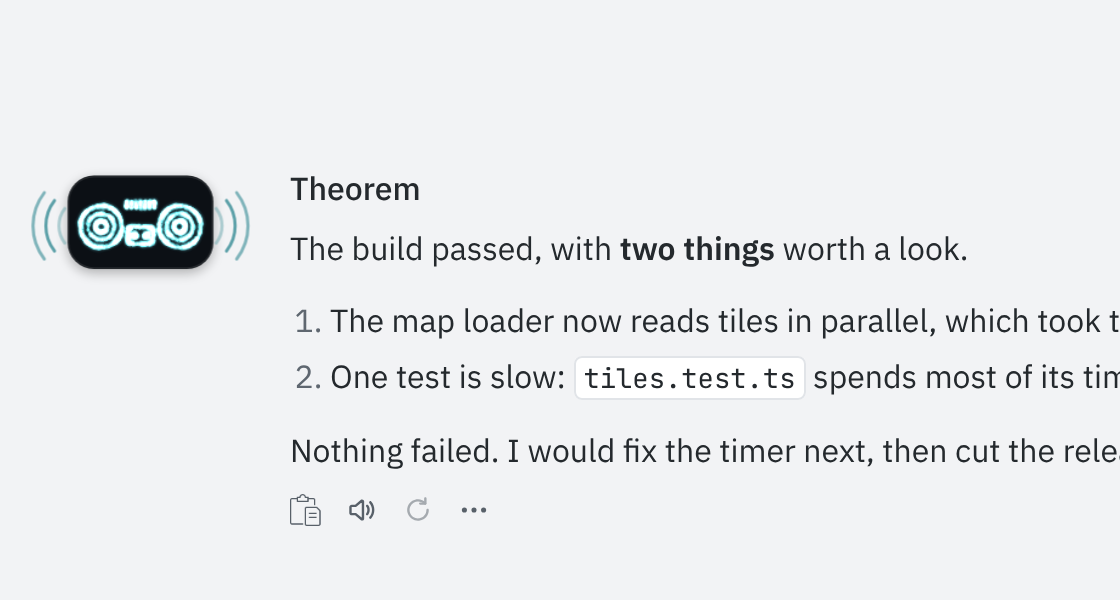
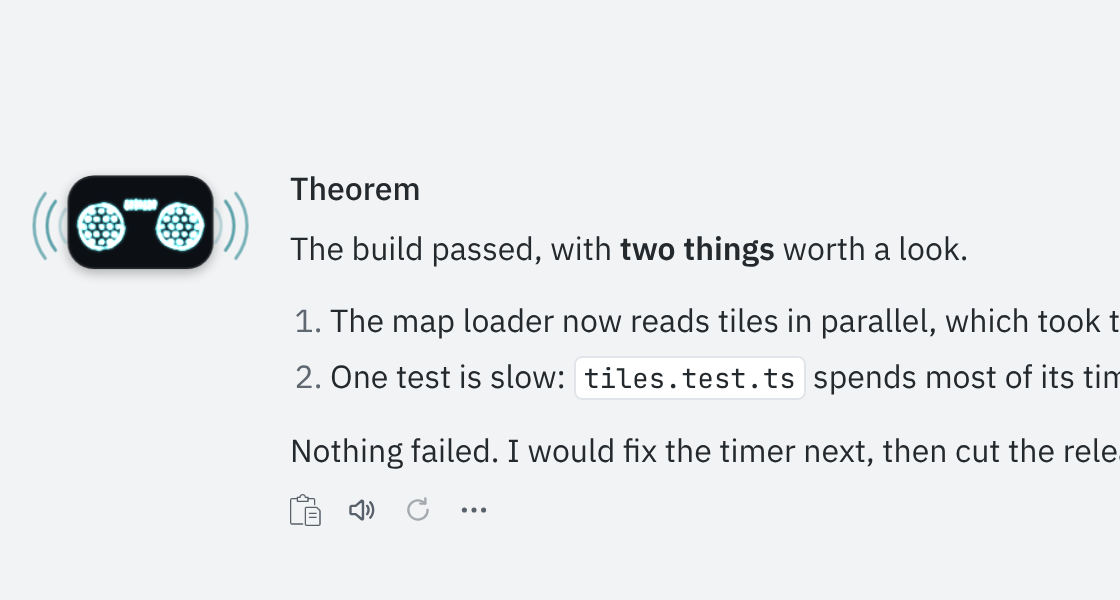
Give the boombox mesh speaker covers, and take the deck out
The owner's two changes on seeing the first loudspeaker. The cassette
deck under the dial read as a nose, so it and its reels are gone; the
dial above stays. The eyes were three rings each, which read as tired
cartoon eyes more than speakers: they are now the mesh of a speaker's
cover, dots in staggered rows inside a rim.

`mesh` is a new feature param beside `rings` and `slats`. `rings` is
kept for a later device; nothing in the book uses it now.

The renders that show the loudspeaker are taken again.

Claude-Session: https://claude.ai/code/session_01JfHnWFDvdCjcfPp38bT2qx

Changed region(s): [[0.0312, 0.33, 0.25, 0.42]]

diff --git a/src/lib/face/feature.ts b/src/lib/face/feature.ts
@@ -1,4 +1,4 @@
-// SOURCING: the superellipse (Lamé curve) for a box that rounds into an ellipse or pinches into a diamond; eight radial gains interpolated around it, the study rig's way of bending one outline into many (theorem-face-study src/rig.js, docs/plans/theo-face.md Sources). The rings and bars a feature's matter can be gathered into are this app's, for the devices the face turns into (docs/plans/theo-sound.md). The lids that gather cut matter onto their line are this app's, after the reference robot's eyes, which close to a bright line rather than vanishing.
+// SOURCING: the superellipse (Lamé curve) for a box that rounds into an ellipse or pinches into a diamond; eight radial gains interpolated around it, the study rig's way of bending one outline into many (theorem-face-study src/rig.js, docs/plans/theo-face.md Sources). The rings, bars and mesh a feature's matter can be gathered into are this app's, for the devices the face turns into (docs/plans/theo-sound.md). The lids that gather cut matter onto their line are this app's, after the reference robot's eyes, which close to a bright line rather than vanishing.
 import { FEATURE_PARAMS, FEATURE_PARAM_NAMES } from './channels'
 import type { FeatureDef, FeatureParam } from './channels'
 
@@ -21,6 +21,7 @@ export interface Shape {
   hollow: number
   rings: number
   slats: number
+  mesh: number
   turn: number
   scale: number
   alpha: number
@@ -50,6 +51,7 @@ export function restShape(side: -1 | 0 | 1 = 0): Shape {
     hollow: 0,
     rings: 0,
     slats: 0,
+    mesh: 0,
     turn: 0,
     scale: 1,
     alpha: 1,
@@ -79,6 +81,14 @@ const MEET = 0.3
 const RESIDUE = 0.07
 /** How much of the gap between two rings, or two bars, the matter of one fills. */
 const BAND = 0.34
+/** How much of the step between two dots of a mesh the matter of one fills. */
+const DOT = 0.46
+/** How far apart the rows of a mesh are, in steps: every other row sits between the dots of the last. */
+const ROW = Math.sqrt(3) / 2
+/** How much of a meshed feature's matter is its rim, how wide the rim is and how far the dots keep from it, as parts of the feature. */
+const RIM_SHARE = 0.24
+const RIM_WIDTH = 0.07
+const RIM_GAP = 0.03
 
 /**
  * Where one grain sits in a feature, in face units. `theta` is its angle
@@ -125,6 +135,37 @@ export function seatPoint(
     const bar = Math.min(slats - 1, Math.floor(((height + 1) / 2) * slats))
     const middle = -1 + (2 * bar + 1) / slats
     y = (middle + (height - middle) * BAND) * shape.h
+  }
+  // Mesh: the outermost matter is the rim, and each grain inside goes to the dot its place falls in, every
+  // other row half a step along. Where the nearest dot would cross the rim the grain looks further in.
+  const mesh = Math.round(shape.mesh)
+  if (mesh >= 1 && shape.w > 0 && shape.h > 0) {
+    if (u > 1 - RIM_SHARE) {
+      const band = 1 - RIM_WIDTH * ((1 - u) / RIM_SHARE)
+      x = band * rim * gain * shape.w * cos
+      y = band * rim * gain * shape.h * sin
+    } else {
+      const step = (2 * shape.w) / mesh
+      const reach = 1 - RIM_WIDTH - RIM_GAP - (DOT * step) / (2 * shape.w)
+      let inward = Math.sqrt(u / (1 - RIM_SHARE))
+      for (let tries = 0; tries < 4; tries++) {
+        const px = inward * rim * gain * shape.w * cos
+        const py = inward * rim * gain * shape.h * sin
+        const row = Math.round(py / (step * ROW))
+        const shift = ((row & 1) === 1 ? mesh % 2 : 1 - (mesh % 2)) / 2
+        const dotX = (Math.round(px / step - shift) + shift) * step
+        const dotY = row * step * ROW
+        x = dotX + (px - dotX) * DOT
+        y = dotY + (py - dotY) * DOT
+        const past = Math.pow(
+          Math.pow(Math.abs(dotX / shape.w), n) +
+            Math.pow(Math.abs(dotY / shape.h), n),
+          1 / n,
+        )
+        if (past <= reach) break
+        inward *= 0.82
+      }
+    }
   }
 
   // Lids. `across` runs -1 at the inner end to 1 at the outer.

diff --git a/src/lib/face/sound.test.ts b/src/lib/face/sound.test.ts
@@ -1,4 +1,4 @@
-// SOURCING: bun:test; lib/face's own parts (signals, the follow step, forms, rings and bars), checked on a clock the test turns. The sound here is numbers the test feeds, as the page's meter would (lib/sound/meter has its own tests).
+// SOURCING: bun:test; lib/face's own parts (signals, the follow step, forms, rings, bars and mesh), checked on a clock the test turns. The sound here is numbers the test feeds, as the page's meter would (lib/sound/meter has its own tests).
 import { describe, expect, test } from 'bun:test'
 import { BUILT_IN } from './book'
 import { Channels } from './channels'
@@ -299,7 +299,7 @@ describe('forms', () => {
     expect([...seen].sort()).toEqual(['boombox', 'speak'])
   })
 
-  test('as a loudspeaker it has a deck and a dial, and sends out as much as is playing', () => {
+  test('as a loudspeaker its eyes are mesh covers under a dial, and it sends out as much as is playing', () => {
     const { face, run } = theo()
     // Draw until the loudspeaker is the form: which one is the face's to choose.
     for (let tries = 0; tries < 20; tries++) {
@@ -308,9 +308,12 @@ describe('forms', () => {
     }
     expect(plain(face.player.holding('form')?.name)).toBe('boombox')
     run(1_500)
-    expect(features(face)).toEqual(
-      expect.arrayContaining(['deck', 'reel.left', 'reel.right', 'dial']),
-    )
+    expect(features(face)).toContain('dial')
+    // Nothing sits under the dial, between the speakers.
+    expect(features(face)).not.toContain('deck')
+    expect(face.rig.read('eye.left.mesh')).toBeCloseTo(5, 1)
+    expect(face.rig.read('eye.right.mesh')).toBeCloseTo(5, 1)
+    expect(face.rig.read('eye.left.rings')).toBe(0)
     expect(face.emitting()).toEqual({ left: 0, right: 0 })
     face.feed({ 'sound.level': 0.8 })
     run(300)
@@ -426,7 +429,7 @@ describe('forms', () => {
   })
 })
 
-describe('rings and bars', () => {
+describe('rings, bars and mesh', () => {
   const seat = (
     shape: ReturnType<typeof restShape>,
     theta: number,
@@ -468,7 +471,43 @@ describe('rings and bars', () => {
     expect(rows.size).toBe(5)
   })
 
-  test('with neither, a feature is filled as it always was', () => {
+  test('a mesh gathers it into dots inside a rim, every other row set between the dots of the last', () => {
+    const meshed = { ...round, mesh: 5 }
+    const step = 20 / 5
+    const rows = step * (Math.sqrt(3) / 2)
+    const dots = new Set<string>()
+    let onRim = 0
+    let inside = 0
+    for (let turn = 0; turn < 96; turn++)
+      for (let depth = 1; depth <= 60; depth++) {
+        const [x, y] = seat(meshed, (turn / 96) * Math.PI * 2, depth / 60)
+        const out = Math.hypot(x, y) / 10
+        expect(out).toBeLessThanOrEqual(1 + 1e-6)
+        if (out > 0.92) {
+          onRim++
+          continue
+        }
+        inside++
+        const row = Math.round(y / rows)
+        const shift = row % 2 === 0 ? 0 : 0.5
+        const column = Math.round(x / step - shift) + shift
+        // A grain stays near the middle of its dot: between two dots there is nothing.
+        expect(Math.hypot(x - column * step, y - row * rows)).toBeLessThan(
+          step * 0.35,
+        )
+        // And no dot reaches the rim.
+        expect(Math.hypot(column * step, row * rows) / 10).toBeLessThan(0.85)
+        dots.add(`${column},${row}`)
+      }
+    // Five across the middle, and the rows above and below it.
+    expect([...dots].filter((dot) => dot.endsWith(',0'))).toHaveLength(5)
+    expect(dots.has('0,0')).toBe(true)
+    expect(dots.has('0.5,1')).toBe(true)
+    expect(dots.size).toBeGreaterThanOrEqual(15)
+    expect(onRim / (onRim + inside)).toBeCloseTo(0.24, 1)
+  })
+
+  test('with none of them, a feature is filled as it always was', () => {
     const [x, y] = seat(round, 0, 0.25)
     expect(Math.hypot(x, y)).toBeCloseTo(5, 3)
   })

diff --git a/src/lib/face/book.ts b/src/lib/face/book.ts
@@ -475,37 +475,13 @@ export const BUILT_IN: ReadonlyArray<Entry> = [
   // sound itself: with nothing playing, nothing in them moves.
   own(
     'boombox',
-    'While sound plays: the eyes become ringed loudspeakers that throb with it, a cassette deck and a tuner open between them, and arcs leave its sides.',
+    'While sound plays: the eyes become the mesh covers of two loudspeakers that throb with it, a tuner opens above and between them, and arcs leave its sides.',
     {
       keep: true,
       steps: [
         {
           op: 'par',
           steps: [
-            {
-              op: 'feature',
-              id: 'deck',
-              side: 'centre',
-              set: {
-                x: 0,
-                y: 9,
-                w: 9.5,
-                h: 6.5,
-                round: 6,
-                hollow: 0.74,
-                share: 0.34,
-              },
-            },
-            {
-              op: 'feature',
-              id: 'reel.left',
-              set: { x: 4.2, y: 9, w: 2, h: 2, round: 2, share: 0.07 },
-            },
-            {
-              op: 'feature',
-              id: 'reel.right',
-              set: { x: 4.2, y: 9, w: 2, h: 2, round: 2, share: 0.07 },
-            },
             {
               op: 'feature',
               id: 'dial',
@@ -529,7 +505,7 @@ export const BUILT_IN: ReadonlyArray<Entry> = [
                 'eyes.w': 13,
                 'eyes.h': 13,
                 'eyes.round': 2,
-                'eyes.rings': 3,
+                'eyes.mesh': 5,
                 'eyes.lid': 0,
                 'eyes.low': 0,
                 'eyes.lidTilt': 0,

diff --git a/src/lib/face/channels.ts b/src/lib/face/channels.ts
@@ -12,7 +12,7 @@ export interface ChannelSpec {
  * What every feature of the face is made of. A feature is a filled shape of
  * particles: a superellipse (`w`, `h`, `round`) bent by eight radial gains
  * (`r0`..`r7`, clockwise from the outer side), cut by an upper and a lower
- * lid, gathered into rings or bars when asked, placed and turned. Lengths are face units: the visor is 100 by 64.
+ * lid, gathered into rings, bars or a mesh when asked, placed and turned. Lengths are face units: the visor is 100 by 64.
  */
 export const FEATURE_PARAMS = {
   x: {
@@ -86,6 +86,12 @@ export const FEATURE_PARAMS = {
     max: 9,
     rest: 0,
     note: 'Its matter gathered into this many bars across: 0 filled, 5 a grille.',
+  },
+  mesh: {
+    min: 0,
+    max: 9,
+    rest: 0,
+    note: 'Its matter gathered into dots, this many across the middle, inside a rim: 0 filled, 5 a speaker cover.',
   },
   turn: {
     min: -180,

diff --git a/docs/plans/theo-sound.md b/docs/plans/theo-sound.md
@@ -29,6 +29,11 @@ box design"; "pair its activities with transforming into electronic
 devices"; "wire up phonon", the 31M model; and people may "bring their own
 ElevenLabs or similar provider keys". It is not a file, so it has no hash.
 
+On seeing the first loudspeaker the owner asked for two changes, made
+here: "remove the middle piece on the bottom", which "looks like a bear's
+nose", and make the eyes "less subwoofer shaped and more like the mesh of
+a speaker cover".
+
 Two limits were agreed with it and are kept here:
 
 - Theo never opens the microphone and never starts speech to text by
@@ -104,15 +109,20 @@ an ordinary reaction to a sound getting loud.
 ## The loudspeaker
 
 `boombox` is the first device. It is made of the face's own matter, with
-two additions to what a feature can be (`src/lib/face/feature.ts`):
+three additions to what a feature can be (`src/lib/face/feature.ts`):
 
-- `rings`: the matter gathered into that many rings from the middle out.
-  Three is a loudspeaker cone.
+- `mesh`: the matter gathered into dots inside a rim, that many across the
+  middle, every other row set between the dots of the last. Five is a
+  speaker's cover.
 - `slats`: the matter gathered into that many bars. Seven, turned a
   quarter, is a tuner strip.
+- `rings`: the matter gathered into that many rings from the middle out.
+  The first loudspeaker's cones were three of these. Nothing in the book
+  uses it now; it is kept for a device that wants it.
 
-The eyes become two ringed speakers and move apart; a `deck` (a hollow
-box) with two `reel`s sits between them and a `dial` above. The speakers
+The eyes become the mesh covers of two speakers and move apart, with a
+`dial` above and between them. Nothing sits under the dial: the first
+version had a cassette deck there, and it read as a nose. The speakers
 swell with `sound.low` and `sound.beat`, the dial with `sound.high`.
 
 What leaves the sides is not matter. Matter is clipped to the visor, so
@@ -134,8 +144,8 @@ are drawn still for as long as there is sound, and go when there is none.
 `sound.level` and whose width narrows with `sound.mid`. `thump` is a short
 kick for a sudden loud sound.
 
-Later devices are meant to be built the same way: features, rings and
-bars, and ties to signals.
+Later devices are meant to be built the same way: features, meshes, bars
+and rings, and ties to signals.
 
 ## The page's sound
 
@@ -236,8 +246,8 @@ src/lib/face/
   layers.ts       the `form` layer
   reactions.ts    `until`, and drawing a form; the three sound rules
   engine.ts       feed, forms taken and let go, emitting, the manual's signals
-  feature.ts      rings and bars
-  channels.ts     `rings`, `slats`, `emit.left`, `emit.right`
+  feature.ts      mesh, bars and rings
+  channels.ts     `mesh`, `slats`, `rings`, `emit.left`, `emit.right`
   book.ts         boombox, speak, thump
   memory.ts       what a sound does to the mood
   operations.ts   `follow` and `until` in the descriptions
@@ -264,7 +274,7 @@ src/stories/                         the story `face-sound`; the fake API's orig
 **Execution correctness** (`bun test src/lib/face src/lib/sound
 src/lib/speech src/stories`):
 
-- signals, `follow`, forms, rings and bars (24, `lib/face/sound.test.ts`):
+- signals, `follow`, forms, rings, bars and mesh (25, `lib/face/sound.test.ts`):
   bounds; a tied channel moving with the signal and with nothing else;
   `for`; a kept performance keeping its ties; refusals by path; nothing
   following with motion reduced, and a tie with `for` ending then all the
@@ -274,7 +284,8 @@ src/lib/speech src/stories`):
   drawn; the loudspeaker's parts and what it emits; the steady arcs with
   motion reduced; the mouth; a reaction over a form; no sleep while one is
   held; a loud sound as a moment; the manual; the three performances
-  compiling without a note; rings in bands; bars in rows; a plain feature
+  compiling without a note; rings in bands; bars in rows; a mesh in dots
+  inside a rim; a plain feature
   unchanged;
 - the meter (9, `lib/sound/meter.test.ts`, tones the test makes): the
   decibel scale; silence; one start and a level that follows loudness;
@@ -293,7 +304,7 @@ src/lib/speech src/stories`):
 The whole list (`src/lib/face src/lib/kit src/lib/figures.test.ts
 src/lib/world.test.ts src/lib/sound src/lib/speech src/components/face
 src/components/kit src/components/chat src/components/artifacts
-src/stories`) is 552 tests in 45 files.
+src/stories`) is 553 tests in 45 files.
 
 **Built.** `NITRO_PRESET=cloudflare_module bun --bun vite build` finishes.
 The voice package's worker and four WebAssembly files (about 4.4 MB each,
@@ -304,16 +315,16 @@ WebAssembly.
 **Seen** (headless Chromium on software WebGL, the story `face-sound` at
 1280 by 800, 2x; renders in `evidence/theo-sound/`):
 
-| Render               | Shows                                                                                                   |
-| -------------------- | ------------------------------------------------------------------------------------------------------- |
-| `boombox.png`        | a speech-shaped test tone playing: two ringed speakers, deck, dial, arcs both sides, clear of the words |
-| `boombox-light.png`  | the same in the light theme, on the visor                                                               |
-| `speak.png`          | the mouth form under the same tone                                                                      |
-| `reduced-motion.png` | motion reduced: the form taken, two still arcs a side                                                   |
-| `in-shell.png`       | the story `face-in-shell`: the form at its full three times, where the gutter has room                  |
-| `reading.png`        | the real voice reading the reply: the form held, the button now Stop reading                            |
-| `page.png`           | the whole story page                                                                                    |
-| `could-not-read.png` | the model's host unreachable: the button back to Read aloud, and the words beside it                    |
+| Render               | Shows                                                                                                     |
+| -------------------- | --------------------------------------------------------------------------------------------------------- |
+| `boombox.png`        | a speech-shaped test tone playing: two mesh speaker covers, the dial, arcs both sides, clear of the words |
+| `boombox-light.png`  | the same in the light theme, on the visor                                                                 |
+| `speak.png`          | the mouth form under the same tone                                                                        |
+| `reduced-motion.png` | motion reduced: the form taken, two still arcs a side                                                     |
+| `in-shell.png`       | the story `face-in-shell`: the form at its full three times, where the gutter has room                    |
+| `reading.png`        | the real voice reading the reply: the form held, the button now Stop reading                              |
+| `page.png`           | the whole story page                                                                                      |
+| `could-not-read.png` | the model's host unreachable: the button back to Read aloud, and the words beside it                      |
 
 With the real voice in that browser: pressing Read aloud fetched
 65,049,306 bytes, the first audio came after about five seconds, the form

diff --git a/docs/plans/theo-face.md b/docs/plans/theo-face.md
@@ -124,9 +124,9 @@ A face is a list of **features**. Every feature is the same primitive:
   and a bow. A raised, bowed lower lid makes the smiling arc; a tilted upper
   lid makes a glare; both shut make a line;
 - a **hollow**: an inner radius, for a ring;
-- **rings** and **bars**: its matter gathered into that many rings from the
-  middle out, or that many rows, for the devices the face turns into
-  (`theo-sound.md`);
+- **rings**, **bars** and a **mesh**: its matter gathered into that many
+  rings from the middle out, that many rows, or dots inside a rim, for the
+  devices the face turns into (`theo-sound.md`);
 - a **place**: position, turn and scale on the visor;
 - an **alpha**, and a **share** of the face's matter.
 
@@ -149,13 +149,13 @@ Every number above is a **channel** with a name, bounds and a rest value.
 Names address meaning, never grains: `eye.left.lid`, `eye.right.lidTilt`,
 `gaze.x`, `face.tilt`, `matter.cohesion`. `eyes.<param>` means both eyes.
 
-| Group    | Channels                                                                                                                                                       |
-| -------- | -------------------------------------------------------------------------------------------------------------------------------------------------------------- |
-| Feature  | `x`, `y`, `w`, `h`, `round`, `r0`..`r7`, `lid`, `lidTilt`, `lidBow`, `low`, `lowTilt`, `lowBow`, `hollow`, `rings`, `slats`, `turn`, `scale`, `alpha`, `share` |
-| Face     | `face.tilt`, `face.scale`, `face.dx`, `face.dy`, `face.squash`, `emit.left`, `emit.right` (what leaves its sides, drawn outside the visor)                     |
-| Gaze     | `gaze.x`, `gaze.y`                                                                                                                                             |
-| Matter   | `matter.cohesion`, `matter.jitter`, `matter.drift`, `matter.size`, `matter.glow`, `matter.hue`                                                                 |
-| Autonomy | `auto.blink`, `auto.saccade`, `auto.breath` (how much the face does unasked)                                                                                   |
+| Group    | Channels                                                                                                                                                               |
+| -------- | ---------------------------------------------------------------------------------------------------------------------------------------------------------------------- |
+| Feature  | `x`, `y`, `w`, `h`, `round`, `r0`..`r7`, `lid`, `lidTilt`, `lidBow`, `low`, `lowTilt`, `lowBow`, `hollow`, `rings`, `slats`, `mesh`, `turn`, `scale`, `alpha`, `share` |
+| Face     | `face.tilt`, `face.scale`, `face.dx`, `face.dy`, `face.squash`, `emit.left`, `emit.right` (what leaves its sides, drawn outside the visor)                             |
+| Gaze     | `gaze.x`, `gaze.y`                                                                                                                                                     |
+| Matter   | `matter.cohesion`, `matter.jitter`, `matter.drift`, `matter.size`, `matter.glow`, `matter.hue`                                                                         |
+| Autonomy | `auto.blink`, `auto.saccade`, `auto.breath` (how much the face does unasked)                                                                                           |
 
 Layers, lowest first: **mood** (the run's liveness, sleep, and the agent's
 `theorem-expression`), **form** (what the face is for as long as something
